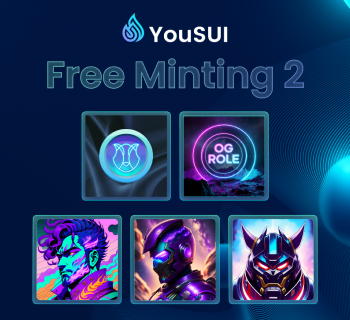
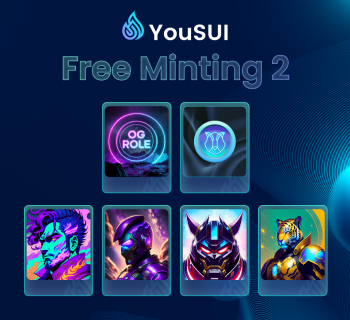
-- update Free minting 2, connect wallet UI

diff --git a/src/components/wallet/choose-wallet-modal.js b/src/components/wallet/choose-wallet-modal.js
@@ -6,20 +6,14 @@ import { WalletButton } from './wallet-button';
 
 const InstallButton = styled(Button)(({ theme }) => ({
     display: 'flex',
-    width: 80,
-    height: 32,
-    paddingTop: theme.spacing(0.5),
-    paddingBottom: theme.spacing(0.5),
-    paddingLeft: theme.spacing(1),
-    paddingRight: theme.spacing(1),
+    padding: '6px 20px',
     color: '#fff !important',
     borderRadius: 50,
-    textTransform: 'uppercase!important',
     background: 'linear-gradient(178.73deg, rgba(104, 229, 184, 1) 0%, rgba(109, 133, 218, 1) 100%)',
+    boxShadow: '0px 0px 8px 0px #4191C9',
     position: 'absolute',
     right: theme.spacing(2),
-    minWidth: 'unset!important',
-    fontWeight: 'bold',
+    fontWeight: 'bold!important',
 }));
 
 export const ChooseWalletModal = () => {
@@ -70,7 +64,7 @@ export const ChooseWalletModal = () => {
 
 
     return (
-        <Box pl={3} pr={3} mt={2} mb={2} textAlign="center">
+        <Box pl={3} pr={3} mb={2} textAlign="center">
             <Typography>No logged in</Typography>
             {/* <AccountCircleIcon sx={{ width: 70, height: 70 }} /> */}
             <Box
@@ -84,10 +78,14 @@ export const ChooseWalletModal = () => {
             >
                 <img src="/images/icon/wallet-icon.svg" style={{ width: 72, height: 72, textAlign: 'center' }} alt="" />
             </Box>
-            <Typography fontWeight={900} mb={2}>
+            <Typography fontWeight={700} mb={2}>
                 My Wallet
             </Typography>
-            <Divider sx={{ borderBottomWidth: 1 }} />
+            <Box sx={{
+                background: 'linear-gradient(170deg, #68E5B8 0%, #6D85DA 100%)',
+                height: '1px',
+                my: 3
+            }} />
             <Typography mt={2} pl={3} pr={3} variant="body2">
                 Connect with your available or create new wallet to join our marketplace
                 {/* {library.MY_WALLET_NOTE_1} */}
@@ -106,8 +104,8 @@ export const ChooseWalletModal = () => {
                         </Typography>
                         {!wallet.installed && (
                             <InstallButton component={Link} href={wallet.downloadUrl.browserExtension} target="_blank">
-                                <Typography variant="caption" sx={{ fontWeight: 'bold' }}>
-                                    INSTALL
+                                <Typography variant="body2">
+                                    Install
                                 </Typography>
                             </InstallButton>
                         )}
@@ -123,8 +121,8 @@ export const ChooseWalletModal = () => {
                             BitKeep Wallet
                         </Typography>
                         <InstallButton component={Link} href="https://bitkeep.com/download?type=2&theme=light" target="_blank">
-                            <Typography variant="caption">{library.INSTALL}</Typography>
-                            <Typography variant="caption" sx={{ fontWeight: 'bold', textTransform: 'capitalize', fontSize: 14 }}>
+
+                            <Typography variant="body2">
                                 Install
                             </Typography>
                         </InstallButton>
@@ -145,8 +143,8 @@ export const ChooseWalletModal = () => {
                             href="https://chrome.google.com/webstore/detail/coin98-wallet/aeachknmefphepccionboohckonoeemg/related?hl=en-US"
                             target="_blank"
                         >
-                            <Typography variant="caption">{library.INSTALL}</Typography>
-                            <Typography variant="caption" sx={{ fontWeight: 'bold', textTransform: 'capitalize', fontSize: 14 }}>
+
+                            <Typography variant="body2">
                                 Install
                             </Typography>
                         </InstallButton>
@@ -167,8 +165,8 @@ export const ChooseWalletModal = () => {
                             href="https://chrome.google.com/webstore/detail/okx-wallet/mcohilncbfahbmgdjkbpemcciiolgcge"
                             target="_blank"
                         >
-                            <Typography variant="caption">{library.INSTALL}</Typography>
-                            <Typography variant="caption" sx={{ fontWeight: 'bold', textTransform: 'capitalize', fontSize: 14 }}>
+
+                            <Typography variant="body2">
                                 Install
                             </Typography>
                         </InstallButton>

diff --git a/src/modules/free-minting-2/FreeMinting2.js b/src/modules/free-minting-2/FreeMinting2.js
@@ -56,7 +56,7 @@ export default function FreeMinting2() {
   const isMobile = useResponsive('down', 'sm');
   const wallet = useWallet();
   const [loading, setLoading] = React.useState(false);
-  const [total, setTotal] = React.useState(2000);
+  const [total, setTotal] = React.useState(5000);
   const [minted, setMinted] = React.useState(0);
   const [owned, setOwned] = React.useState(0);
   const [flag, setFlag] = React.useState(false);
@@ -215,10 +215,6 @@ export default function FreeMinting2() {
             Discord
           </BorderGradientButton>
         </Link>
-        {/* <BorderGradientButton>
-        <img src="/images/icon/icon-global.png" alt="global" />
-        View on Explore
-      </BorderGradientButton> */}
       </Box>
     </>
   );
@@ -278,27 +274,24 @@ export default function FreeMinting2() {
                 >
                   Claim available: <img src="/images/icon/icon-check.png" alt="check" />
                 </Typography>
-                {owned !== 5 ? (
-                  <GradientLoadingButton
-                    sx={{ minWidth: isMobile ? '150px' : '200px', marginTop: '32px' }}
-                    onClick={handleFreeMinting}
-                    loading={loading}
-                    // disabled={owned === 5}
-                    disabled={true}
+                <GradientLoadingButton
+                  sx={{ minWidth: isMobile ? '140px' : '200px', marginTop: '32px' }}
+                  onClick={handleFreeMinting}
+                  loading={loading}
+                  disabled={!hasInTimes || owned > 0 || minted === total}
 
-                  >
-                    Claim now
-                  </GradientLoadingButton >
-                ) : (
-                  <GradientLoadingButton
-                    sx={{ minWidth: isMobile ? '150px' : '200px', marginTop: '32px' }}
-                    loading={loading}
-                    onClick={() => setOpenMyNft(true)}
-                  >
-                    My NFT
-                  </GradientLoadingButton>
-                )
-                }
+                >
+                  {minted === total ? 'Sold out' : 'Claim now'}
+                </GradientLoadingButton >
+
+                {owned > 0 && <GradientLoadingButton
+                  sx={{ minWidth: isMobile ? '140px' : '200px', marginTop: '32px', marginLeft: '16px' }}
+                  loading={loading}
+                  onClick={() => setOpenMyNft(true)}
+                >
+                  My NFT
+                </GradientLoadingButton>}
+
               </Grid >
               <Grid item md={6} xs={12}>
                 <Hidden smDown>
@@ -322,6 +315,10 @@ const nftImage = [
   {
     src: '/images/nfts/yousui-nft-1.png',
     label: 'NFT 1',
+  },
+  {
+    src: '/images/nfts/yousui-nft-10.png',
+    label: 'NFT 10',
   },
   {
     src: '/images/nfts/yousui-nft-7.png',

diff --git a/src/modules/free-minting/FreeMinting.js b/src/modules/free-minting/FreeMinting.js
@@ -275,26 +275,24 @@ export default function FreeMinting() {
                 >
                   Claim available: <img src="/images/icon/icon-check.png" alt="check" />
                 </Typography>
-                {owned !== 5 ? (
-                  <GradientLoadingButton
-                    sx={{ minWidth: isMobile ? '150px' : '200px', marginTop: '32px' }}
-                    onClick={handleFreeMinting}
-                    loading={loading}
-                    // disabled={owned === 5}
-                    disabled
-                  >
-                    Sold Out
-                  </GradientLoadingButton >
-                ) : (
-                  <GradientLoadingButton
-                    sx={{ minWidth: isMobile ? '150px' : '200px', marginTop: '32px' }}
-                    loading={loading}
-                    onClick={() => setOpenMyNft(true)}
-                  >
-                    My NFT
-                  </GradientLoadingButton>
-                )
-                }
+                <GradientLoadingButton
+                  sx={{ minWidth: isMobile ? '140px' : '200px', marginTop: '32px' }}
+                  onClick={handleFreeMinting}
+                  loading={loading}
+                  disabled={!hasInTimes || minted === total}
+
+                >
+                  {minted === total ? 'Sold out' : 'Claim now'}
+                </GradientLoadingButton >
+
+                {owned > 0 && <GradientLoadingButton
+                  sx={{ minWidth: isMobile ? '140px' : '200px', marginTop: '32px', marginLeft: '16px' }}
+                  loading={loading}
+                  onClick={() => setOpenMyNft(true)}
+                >
+                  My NFT
+                </GradientLoadingButton>}
+
               </Grid >
               <Grid item md={6} xs={12}>
                 <Hidden smDown>

diff --git a/src/components/drawer/index.js b/src/components/drawer/index.js
@@ -9,10 +9,12 @@ const CustomDrawer = styled(Drawer)(({ theme }) => ({
     zIndex: '9998!important',
     ' .MuiDrawer-paperAnchorRight': {
         color: '#fff',
-        background: 'linear-gradient(to bottom, rgba(13, 112, 216, 0.05) 0%, rgba(7, 128, 120, 0.3) 100%)',
+        // background: 'linear-gradient(to bottom, rgba(13, 112, 216, 0.05) 0%, rgba(7, 128, 120, 0.3) 100%)',
+        backgroundImage: 'url(/images/background/bg-wallet.jpg)',
         backdropFilter: 'blur(10px)',
         width: '420px !important',
         boxShadow: 'none',
+        paddingTop: '32px',
     },
     [theme.breakpoints.down('sm')]: {
         ' .MuiDrawer-paperAnchorRight': {
@@ -25,7 +27,7 @@ export const WalletDrawer = ({ open, handleClose, disconnectSui }) => {
     const { address } = useContext(WalletContext);
     const wallet = useWallet();
 
-    
+
     return (
         <CustomDrawer anchor={'right'} open={open} onClose={() => handleClose(!open)}>
             <Box>
@@ -41,7 +43,7 @@ export const WalletDrawer = ({ open, handleClose, disconnectSui }) => {
                     <Close color="#fff" />
                 </IconButton>
                 {address || wallet?.address ? (
-                    <LoggedComponent address={address || wallet?.address} _onClose={handleClose} disconnectSui={disconnectSui}/>
+                    <LoggedComponent address={address || wallet?.address} _onClose={handleClose} disconnectSui={disconnectSui} />
                 ) : (
                     <ChooseWalletModal />
                 )}

diff --git a/src/components/wallet/wallet-button.js b/src/components/wallet/wallet-button.js
@@ -2,17 +2,16 @@ import { Button } from '@mui/material';
 import { styled } from '@mui/material/styles';
 
 const WalletBtn = styled(Button)(({ theme }) => ({
+    borderRadius: '15px',
+    background: 'linear-gradient(180deg, rgba(104, 229, 184, 0.15) 0%, rgba(109, 133, 218, 0.15) 100%)',
+    boxShadow: '0px 0px 30px 0px rgba(255, 255, 255, 0.25) inset',
+    backdropFilter: 'blur(25px)',
     cursor: 'pointer',
     display: 'flex',
     alignItems: 'center',
-    paddingTop: theme.spacing(1),
-    paddingBottom: theme.spacing(1),
-    paddingLeft: theme.spacing(2),
-    paddingRight: theme.spacing(2),
+    padding: '10px 16px',
     position: 'relative',
-    background: 'linear-gradient(178.73deg, rgba(104, 229, 184, 0.2) 0%, rgba(109, 133, 218, 0.2) 100%)',
     WebkitTextStroke: '0.1px #3f484f',
-    borderRadius: 8,
     transition: 'all 0.5s ease-out',
     width: '100%',
     justifyContent: 'flex-start',
@@ -27,11 +26,9 @@ const WalletBtn = styled(Button)(({ theme }) => ({
         },
     },
     '&:hover': {
-        background: 'linear-gradient(178.73deg, rgba(104, 229, 184, 1) 0%, rgba(109, 133, 218, 1) 100%)',
-        boxShadow: 'rgb(63 72 79 / 30%) 0px 0px 8px 0px',
-        '.img-box': {
-            backgroundImage: 'linear-gradient(to right, #4b565e, #2d343d)',
-        },
+        background: 'linear-gradient(180deg, rgba(104, 229, 184, 0.5) 0%, rgba(109, 133, 218, 0.5) 100%)',
+        boxShadow: '0px 0px 10px 2px rgba(0,0,0 0.25)',
+
     },
 }));
 

diff --git a/src/components/logged/logged-component.js b/src/components/logged/logged-component.js
@@ -94,10 +94,14 @@ export const LoggedComponent = ({ address, handleClose, disconnectSui }) => {
             <Typography>Logged in</Typography>
             <AccountCircleIcon sx={{ width: 70, height: 70 }} />
             <Typography fontWeight={900}>My wallet</Typography>
-            <Box mb={2}>
+            <Box mb={2} mt={1}>
                 <CopyComponent content={`${address}`}>{formatAddress(`${address}`, 10)}</CopyComponent>
             </Box>
-            <Divider sx={{ borderBottomWidth: 1 }} />
+            <Box sx={{
+                background: 'linear-gradient(170deg, #68E5B8 0%, #6D85DA 100%)',
+                height: '1px',
+                my: 3
+            }} />
             {/* <Box p={3}>
                 {onChainBalances &&
                     onChainBalances.map(
